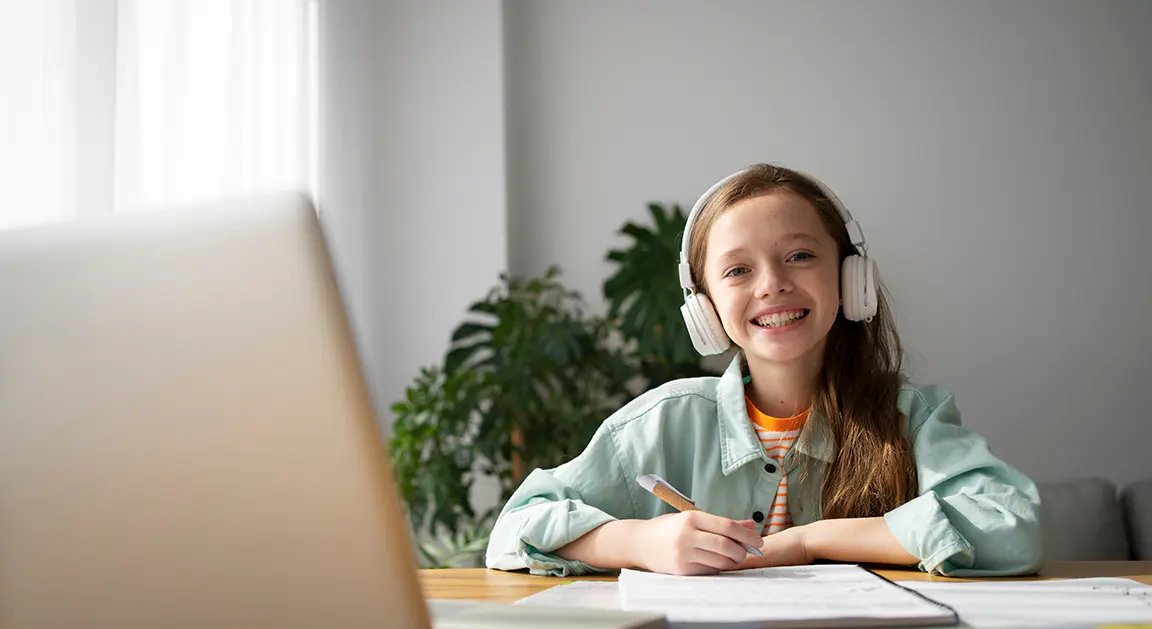
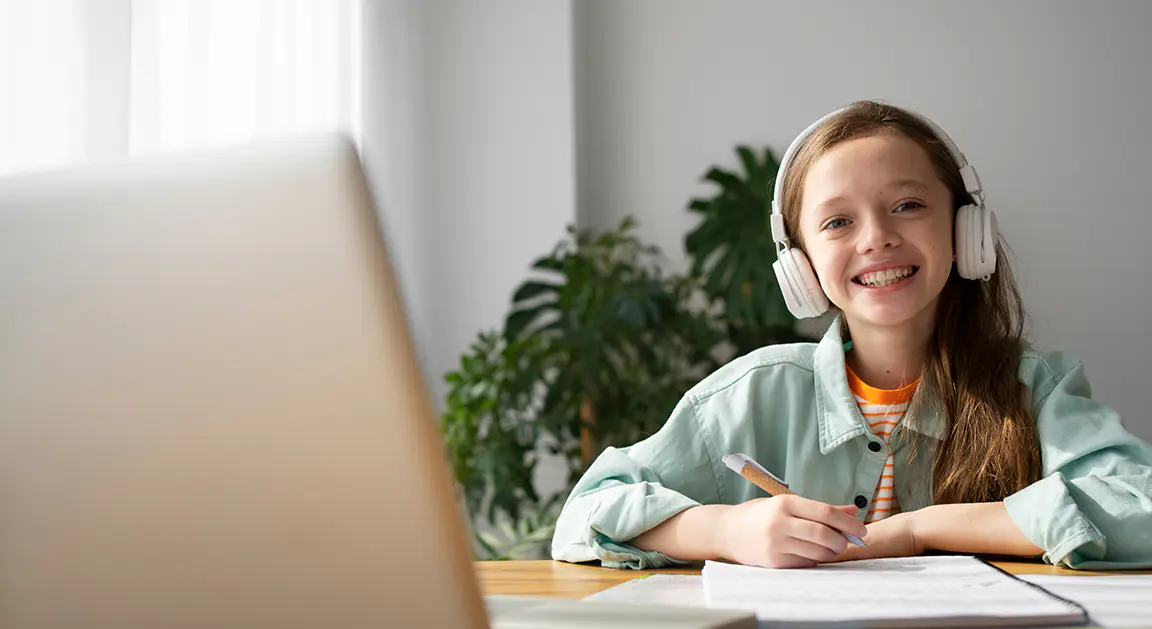
fix: fixed hero desktop background image crop

diff --git a/src/css/hero.css b/src/css/hero.css
@@ -113,7 +113,7 @@
     }
   }
 
-  @media (min-resolution: 384dpi) {
+  @media (min-resolution: 288dpi) {
     .hero-container .hero-wrapper {
       background-image: linear-gradient(
           95.97deg,
@@ -169,14 +169,14 @@
     }
   }
 
-  @media (min-resolution: 384dpi) {
+  @media (min-resolution: 288dpi) {
     .hero-container .hero-wrapper {
       background-image: linear-gradient(
           95.97deg,
           rgba(0, 0, 0, 0.4),
           rgba(0, 0, 0, 0)
         ),
-        url('../images/hero/hero-desktop@4x.webp');
+        url('../images/hero/hero-desktop@3x.webp');
     }
   }
   .hero-container .hero-title {
